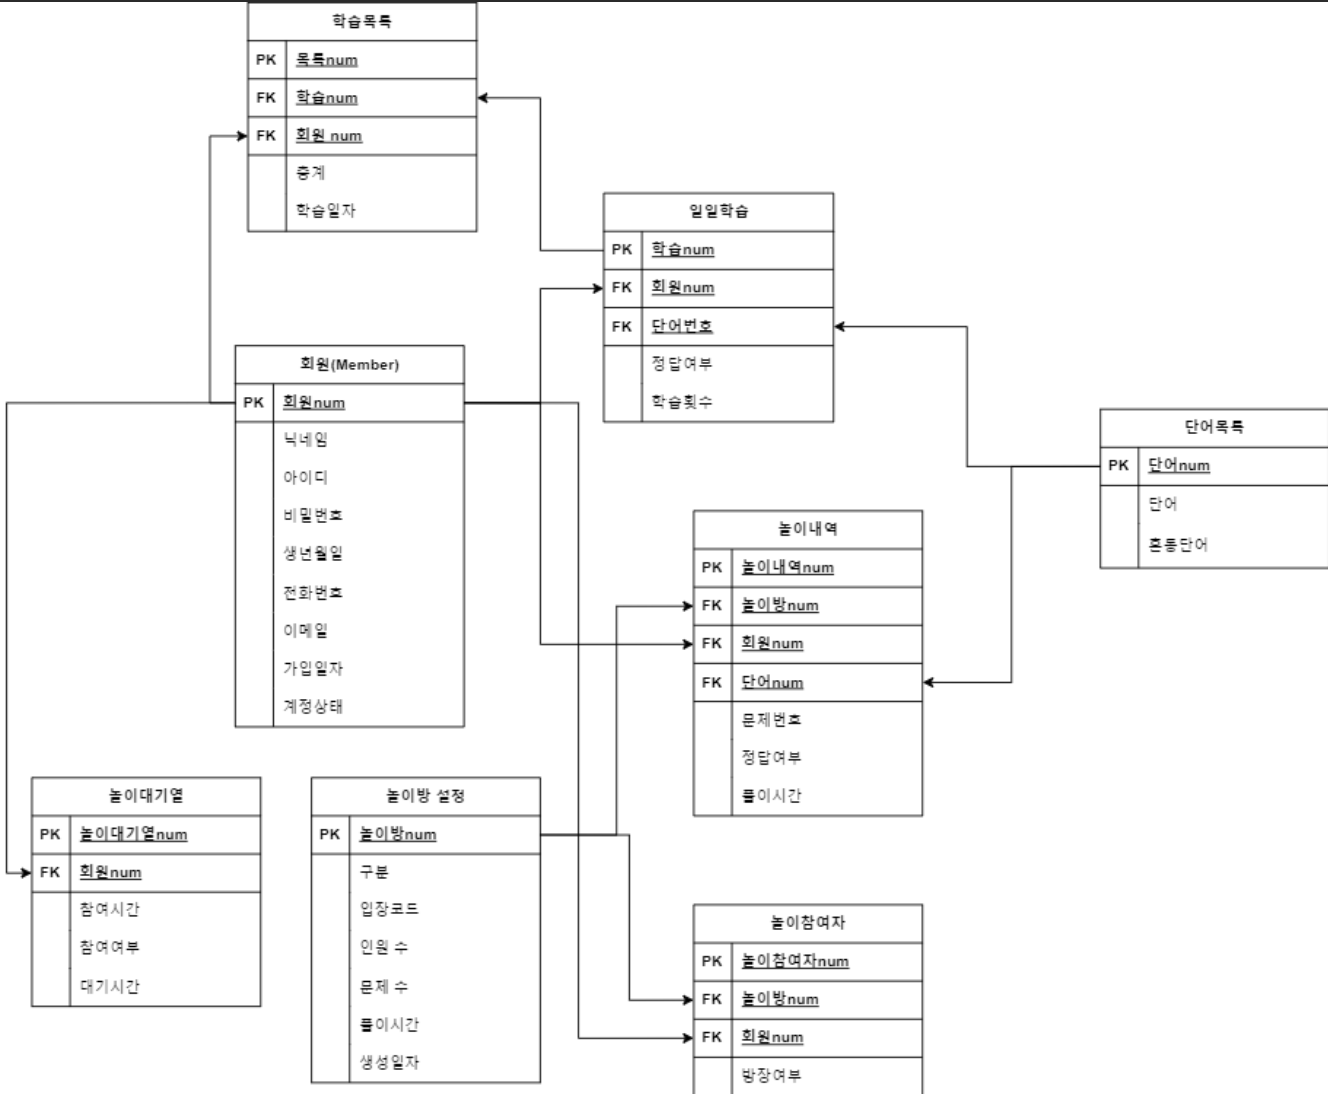
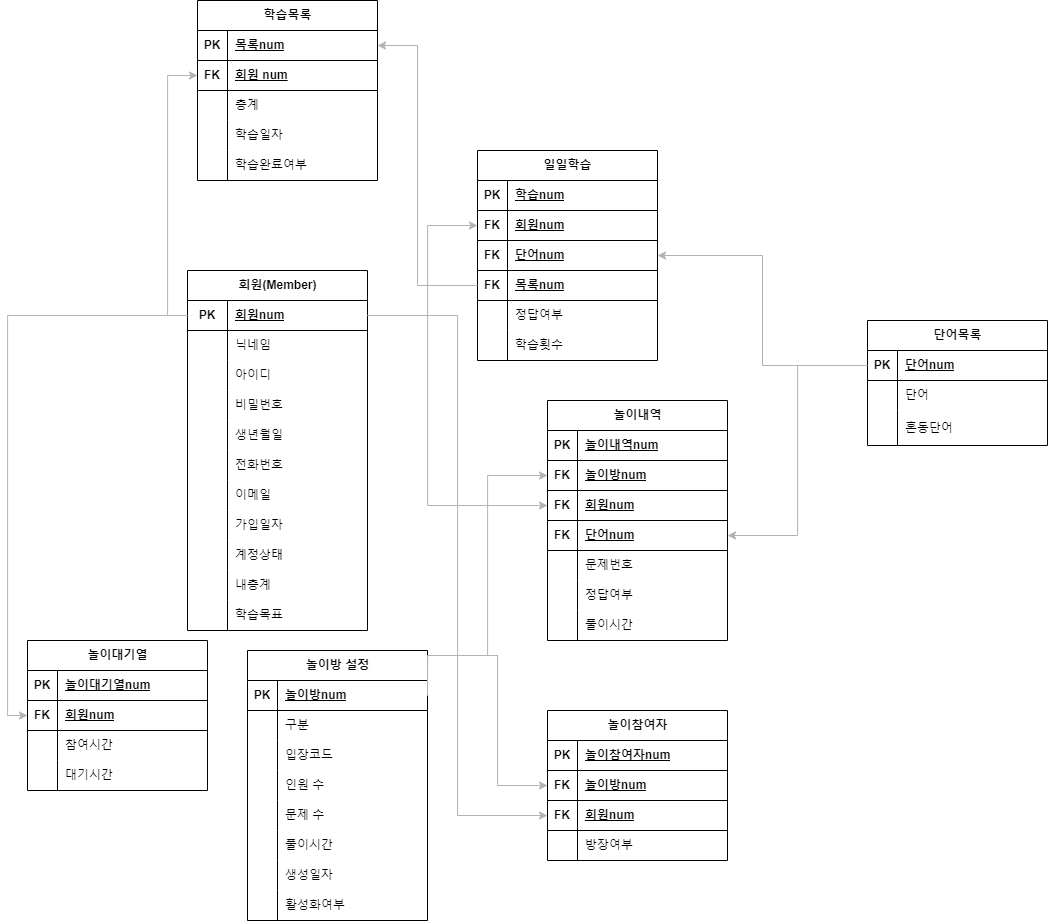
a

diff --git a/README.md b/README.md
@@ -1,14 +1,12 @@
 # 한글혜윰 서비스 기획
 <img src="logo_hyeyum.jpg" width="300" height="300"/>
 
+
 ## 프로젝트 소개
 - 게이미피케이션 형식을 활용한 맞춤법 학습앱
 - 시간을 많이 투자할 수 없는 직장인들을 위해 간결하지만 알찬 맞춤법 학습을 가능하게 합니다.
 <br/>
 
-### ERD
-<img src="erd_hyeyumm.drawio.png" width="600" height="500"/>
-<br/>
 
 ### 프로토타입
 <img src="proto_hyeyum.png" width="800" height="800"/>
@@ -16,6 +14,10 @@
 [프로토타입 전체보기](https://www.figma.com/design/5mPTzOVGaLnoZ3CGZDs73b/%ED%95%9C%EA%B8%80%ED%97%A4%EC%9C%B0_front?node-id=186%3A11757&t=SI37IP3y5vvW35A6-1)
 <br/>
 
+<br/>
+
+### ERD
+<img src="erd_hyeyumm.png" width="600" height="500"/>
 <br/>
 
 ### API문서
@@ -30,3 +32,8 @@
 
 #### 제안서
 [제안서 바로가기](https://www.canva.com/design/DAGAx8wvJ2o/mNvlw5qhyOHb-lW07gvvlw/edit?utm_content=DAGAx8wvJ2o&utm_campaign=designshare&utm_medium=link2&utm_source=sharebutton)
+
+## 감사합니다
+
+### 팀 그라이아이
+- 기획 : 강유진, 김서진, 신유정
